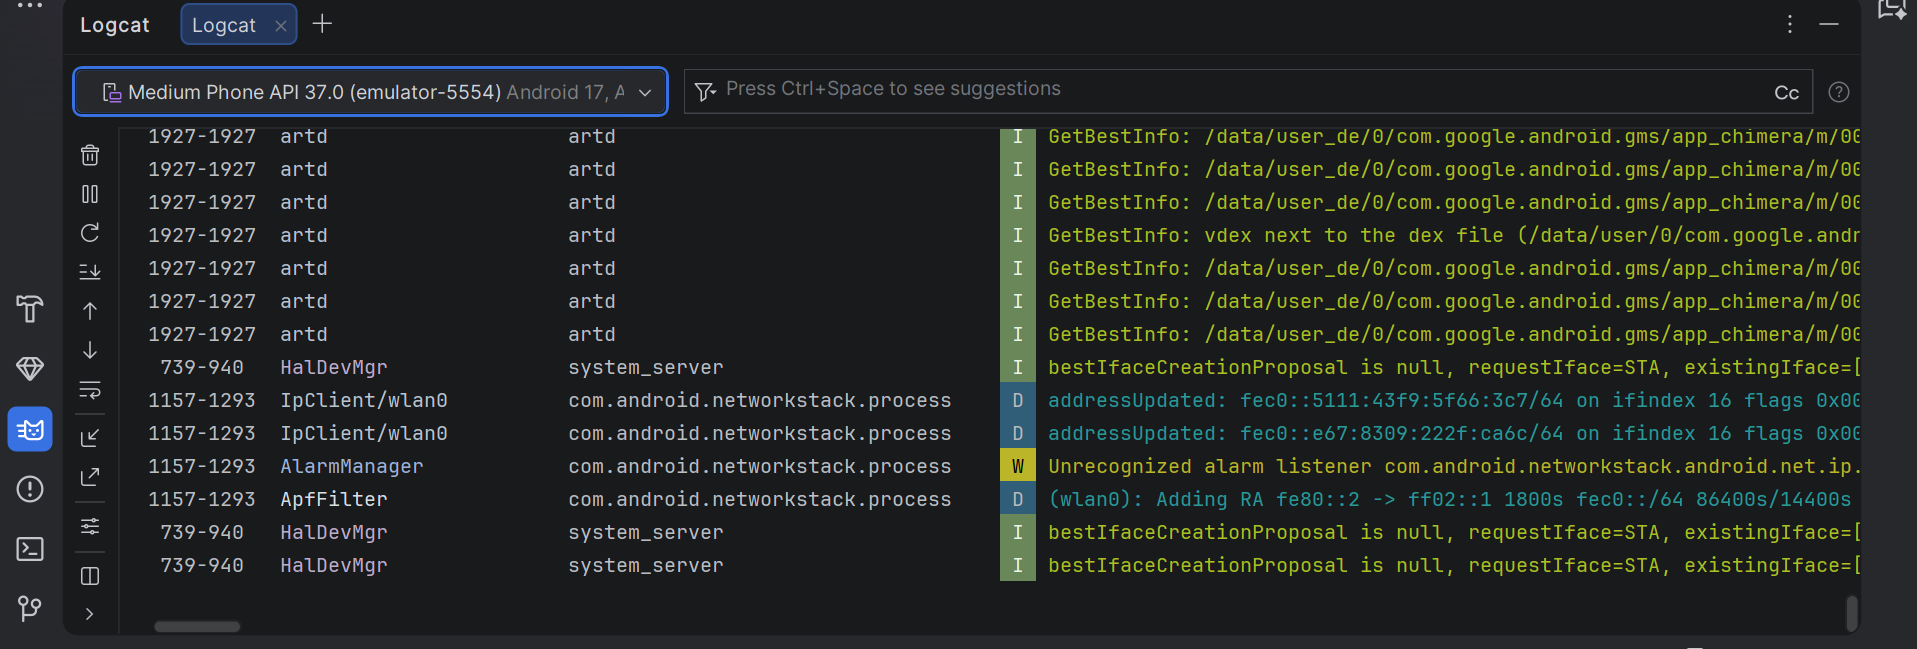
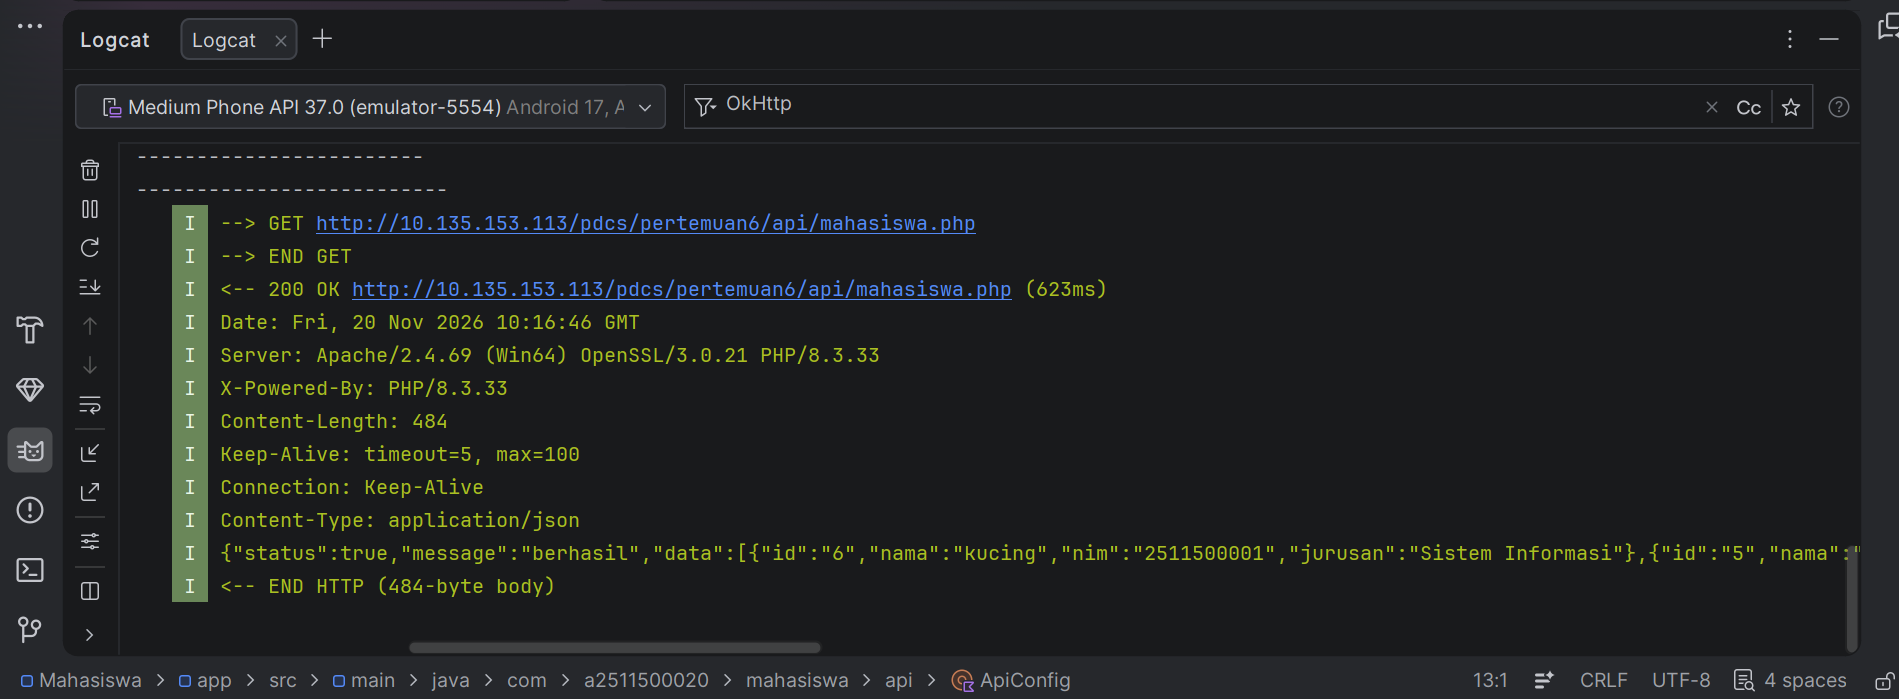
ss

diff --git a/app/src/main/java/com/a2511500020/mahasiswa/api/ApiConfig.kt b/app/src/main/java/com/a2511500020/mahasiswa/api/ApiConfig.kt
@@ -9,7 +9,7 @@ object ApiConfig {
     // BASE_URL sesuaikan dengan server masing-masing.
     // Contoh: server laptop di http:/localhost:8080/pertemuan_6/api/
     // maka untuk emulator gunakan http:/10.0.2.2:8080/pertemuan_6/api/
-    private const val BASE_URL = "http://100.10.10.121/pdcs/pertemuan6/api/"
+    private const val BASE_URL = "http://10.135.153.113/pdcs/pertemuan6/api/"
 
     fun getApiService(): ApiInterface {
         val loggingInterceptor = HttpLoggingInterceptor().apply {

diff --git a/app/src/main/java/com/a2511500020/mahasiswa/MainActivity.kt b/app/src/main/java/com/a2511500020/mahasiswa/MainActivity.kt
@@ -62,7 +62,7 @@ class MainActivity : ComponentActivity() {
         // 2. Jalankan request jaringan secara asynchronous menggunakan Coroutine
         lifecycleScope.launch {
             try {
-                // eksekusi panggilan Retrofit di thread ID
+                // eksekusi panggilan Retrofit di thread I0
                 val response = withContext(Dispatchers.IO) {
                     ApiConfig.getApiService().getDaftarMahasiswa()
                 }

diff --git a/app/src/androidTest/java/com/a2511500020/mahasiswa/ExampleInstrumentedTest.kt b/app/src/androidTest/java/com/a2511500020/mahasiswa/ExampleInstrumentedTest.kt
@@ -19,6 +19,6 @@ class ExampleInstrumentedTest {
     fun useAppContext() {
         // Context of the app under test.
         val appContext = InstrumentationRegistry.getInstrumentation().targetContext
-        assertEquals("com.a2511500020.instalasilab", appContext.packageName)
+        assertEquals("com.a2511500020.Mahasiswa", appContext.packageName)
     }
 }
